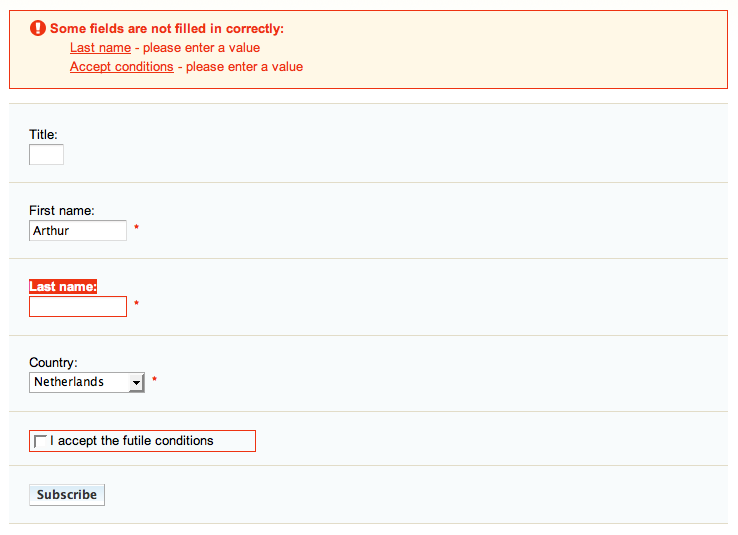
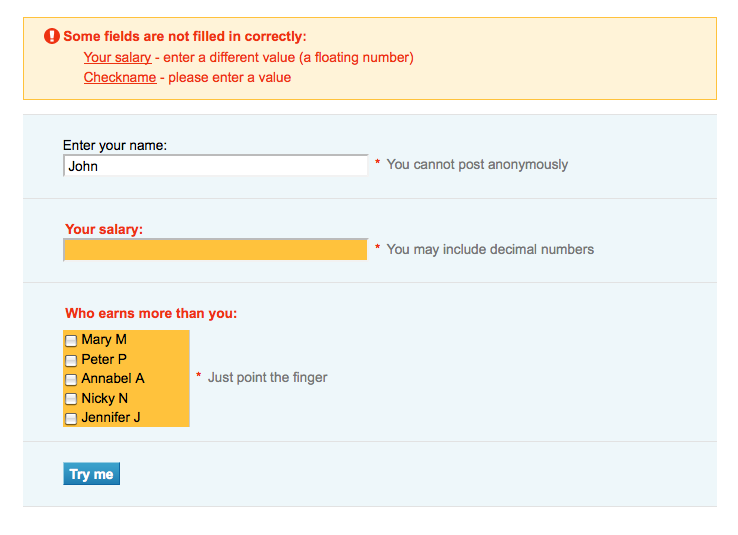
Item690: update to Foswiki
git-svn-id: http://svn.foswiki.org/trunk/FormPlugin@1833 0b4bb1d4-4e5a-0410-9cc4-b2b747904278

diff --git a/pub/System/FormPlugin/formplugin.css b/pub/System/FormPlugin/formplugin.css
@@ -1,13 +1,13 @@
 .formPluginNotification {
-	background-color:#FFF8E7;
+	background-color:#fff3d8;
 	color:#EE3312;
 	padding:0 .25em;
 	white-space:nowrap;
 }
 div.formPluginNotification {
-	padding:.6em 20px; /* side padding same as twikiFormStep (assuming PatternSkin) */
+	padding:.6em 20px; /* side padding same as foswikiFormStep (assuming PatternSkin) */
 	margin:1em 0;
-	border:1px solid #EE3312;
+	border:1px solid #ffc23c;
 }
 div.formPluginNotification ul {
 	margin-bottom:.25em;
@@ -33,13 +33,12 @@ fieldset.formPluginGroupWithHint {
 }
 .formPluginError input,
 .formPluginError .formPluginGroup {
-	border:1px solid #EE3312;
+	background-color:#ffc23c;
 }
 .formPluginError .formPluginTitle {
 	font-weight:bold;
-	background-color:#EE3312;
 	padding:.1em .2em;
-	color:#fff;
+	color:#EE3312;
 }
 .formPluginHint {
 	color:#777;
